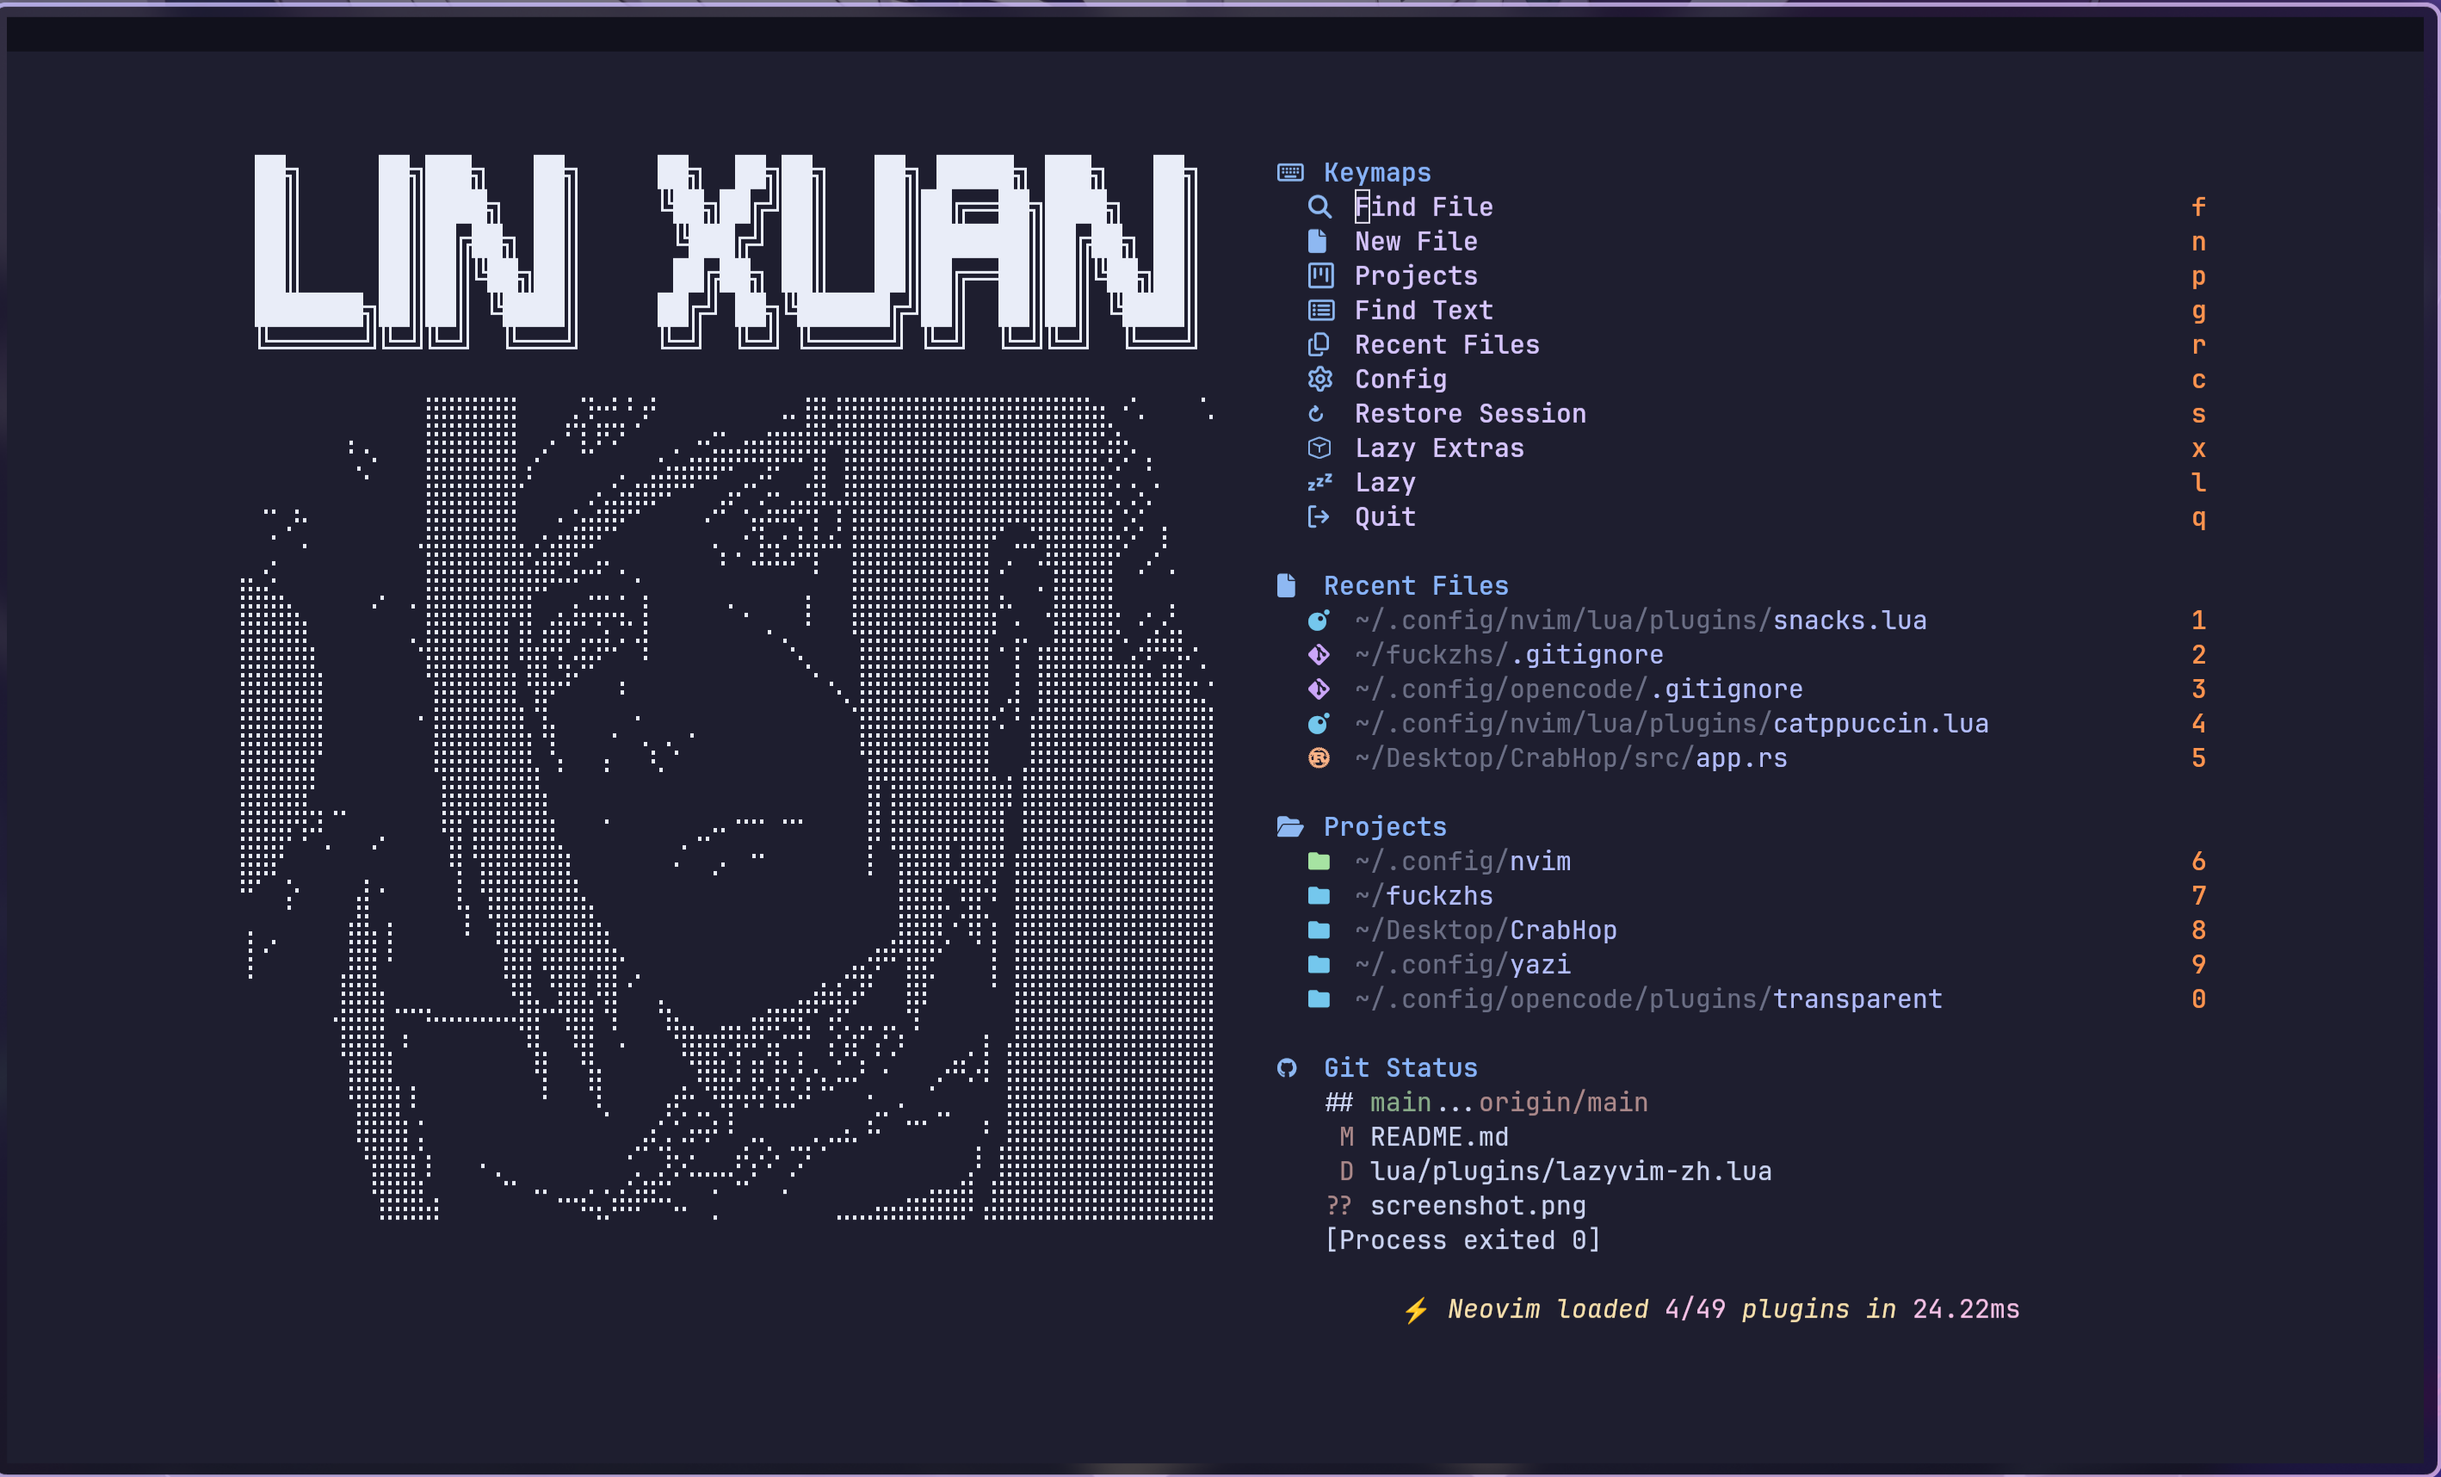
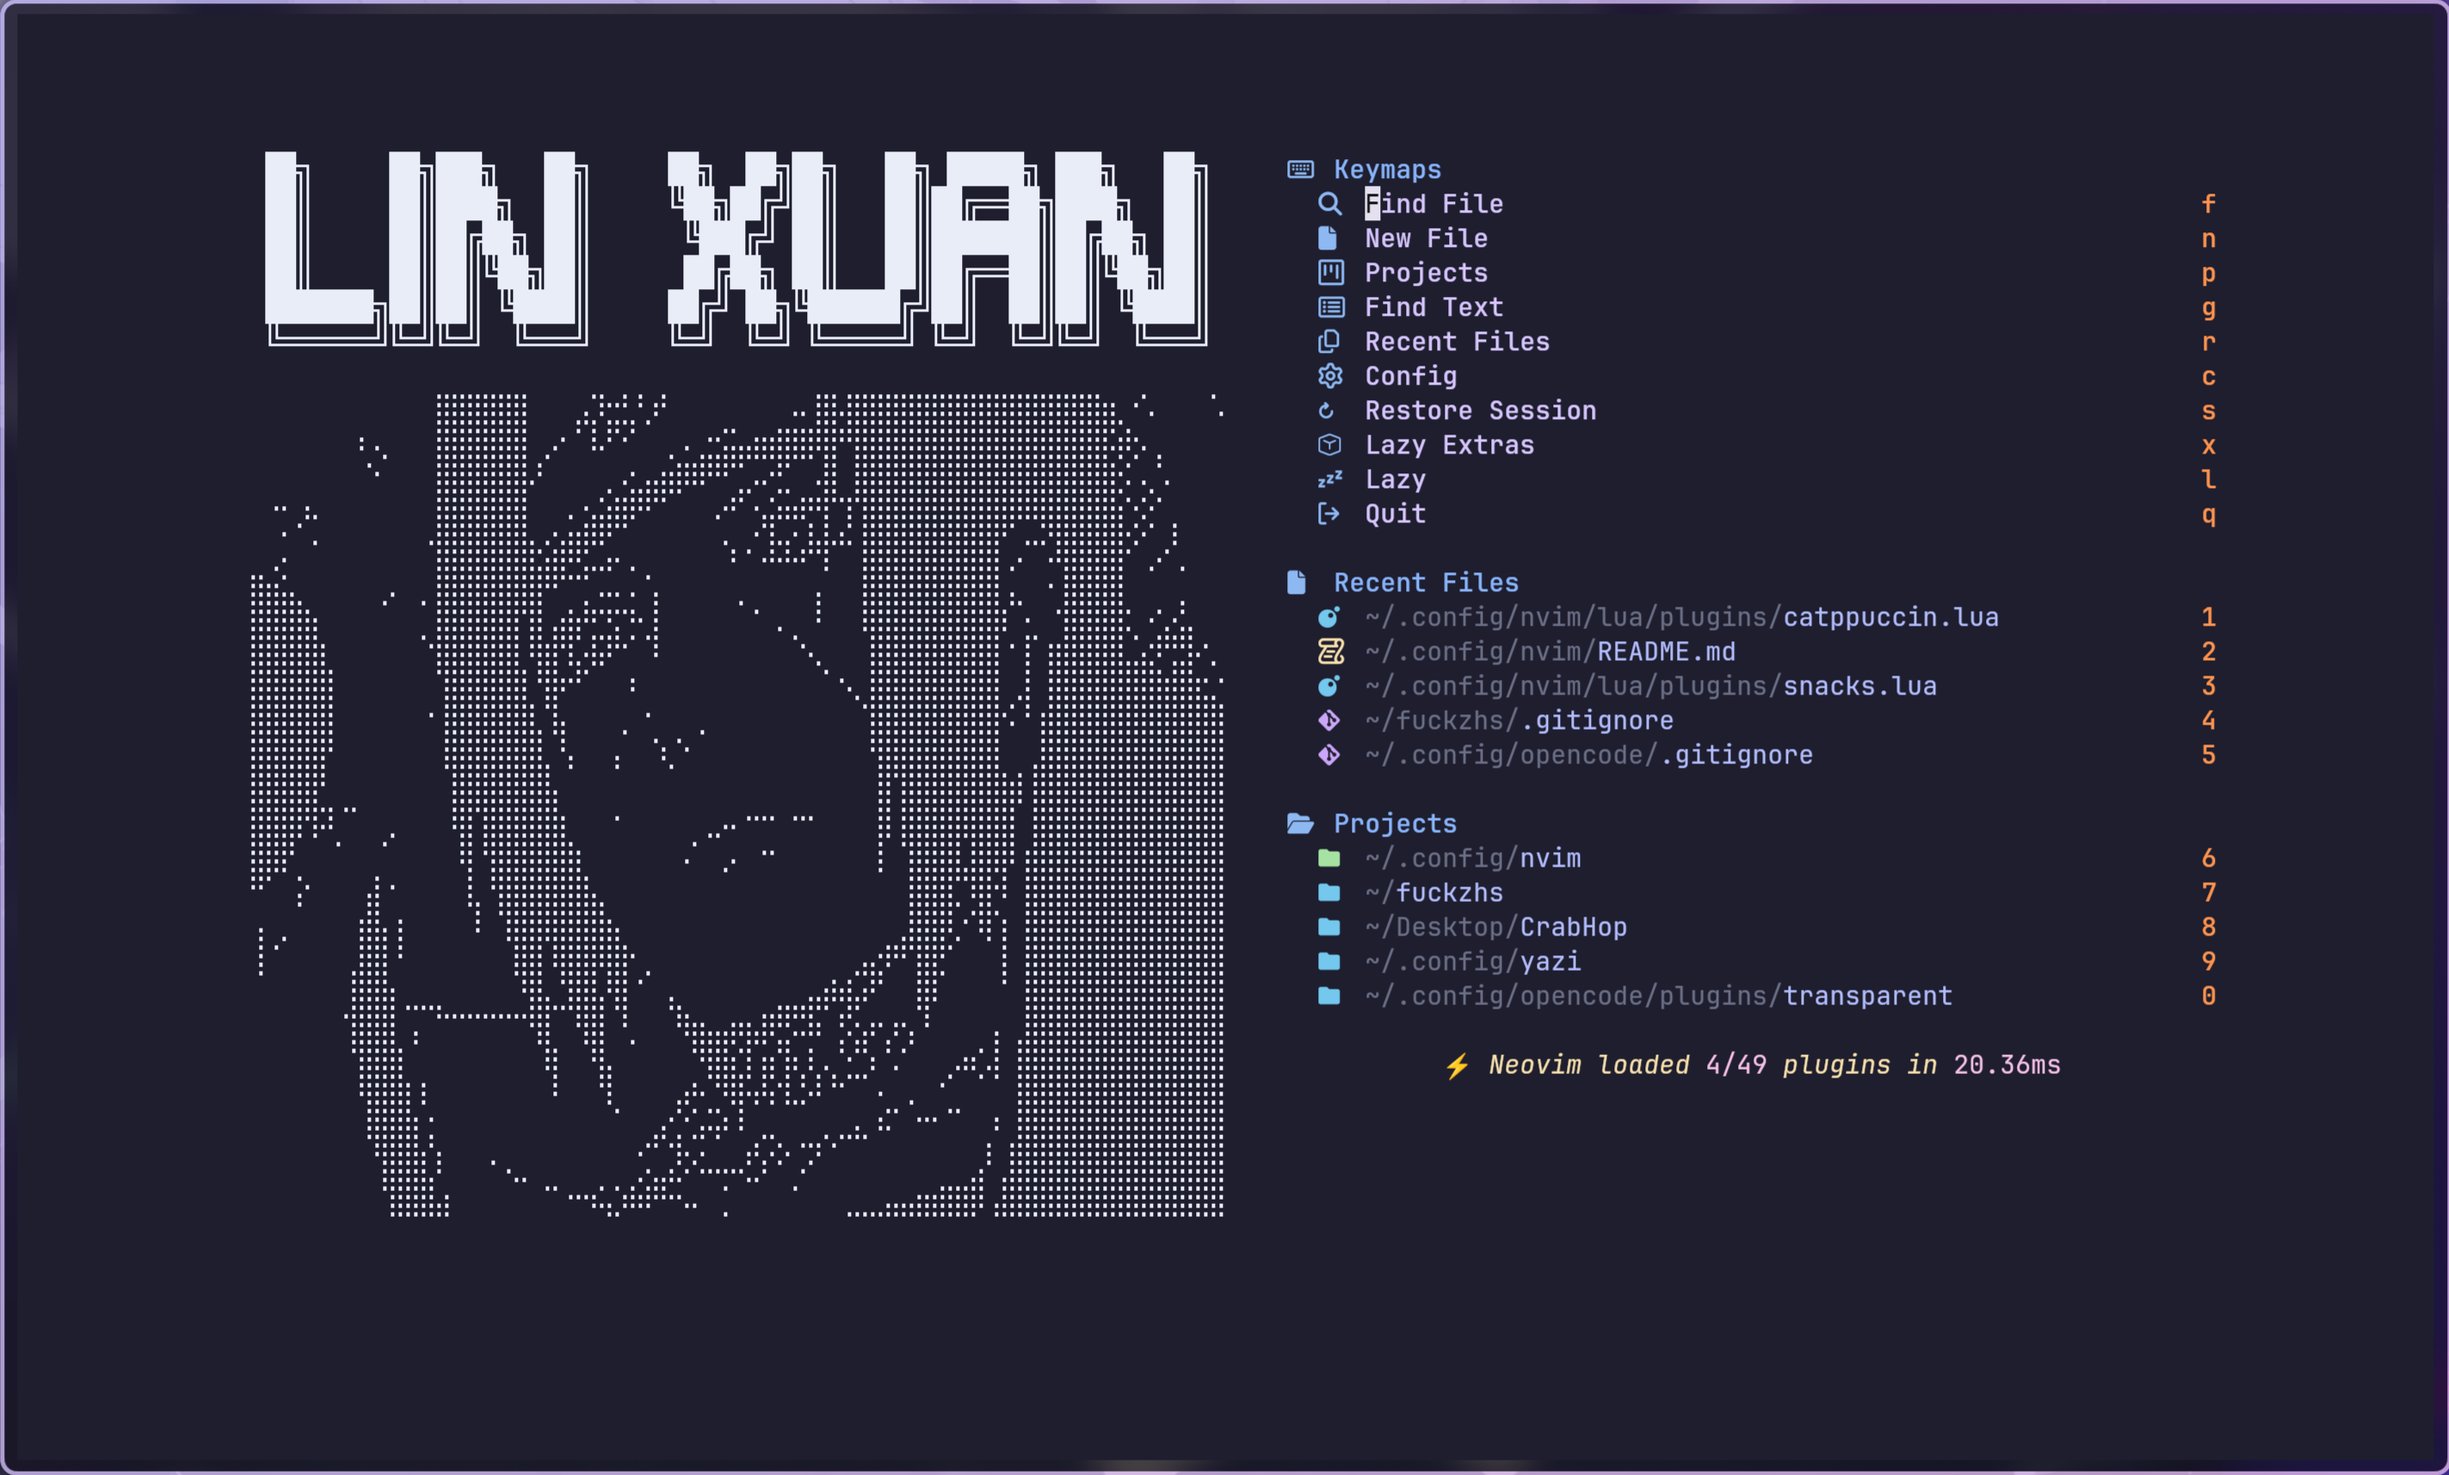
更新

diff --git a/README.md b/README.md
@@ -13,7 +13,7 @@ Installed plugins: 49
 ## 1. Features
 
 1. **Few hand-written plugin specs**: most capabilities come from LazyVim's built-in
-   presets selected via `:LazyExtras` (see `lazyvim.json`). Only 7 files are customized.
+   presets selected via `:LazyExtras` (see `lazyvim.json`). Only 6 files are customized.
 2. **Python uses basedpyright**; inlay hints are disabled by default (toggle with `<leader>uh`).
 3. **Annoying defaults turned off**: no automatic comment continuation, no spell check,
    no LSP progress popups.
@@ -60,7 +60,7 @@ Config: `lazyvim.json`
 |---|---|
 | `catppuccin` | Active colorscheme (mocha) |
 | `tokyonight.nvim` | Fallback colorscheme |
-| `bufferline.nvim` | Top buffer tabline, set to always show |
+| `bufferline.nvim` | Top buffer tabline |
 | `lualine.nvim` | Statusline |
 | `mini.icons` | Filetype icons |
 | `noice.nvim` | Rewrites cmdline / messages / notifications (LSP progress popups disabled) |
@@ -135,7 +135,7 @@ Config: `lazyvim.json`
 | `typst-preview.nvim` | Typst: live browser preview |
 | `markdown-preview.nvim` | Markdown: browser preview |
 
-## 4. Local Customization (7 files)
+## 4. Local Customization (6 files)
 
 | File | What it does |
 |---|---|
@@ -154,7 +154,6 @@ Config: `lazyvim.json`
 | `lua/plugins/snacks.lua` | Dashboard (ASCII art header + four panes: keymaps / recent files / projects / git status), **the ASCII portrait is Itachi Uchiha (宇智波鼬)**; picker shows hidden files; terminal; image & PDF preview; `<leader>t` for multiple terminal instances |
 | `lua/plugins/lsp.lua` | Inlay hints disabled by default |
 | `lua/plugins/noice.lua` | LSP progress notifications disabled |
-| `lua/plugins/bufferline.lua` | Bufferline always visible |
 | `lua/plugins/catppuccin.lua` | Uses catppuccin's own `load()` instead of the built-in theme name |
 | `lua/plugins/example.lua` | LazyVim template; first line is `if true then return {} end` — loads nothing, safe to delete |
 
@@ -297,7 +296,7 @@ If you want Chinese descriptions in the which-key menu and elsewhere, use:
 |---|---|
 | `catppuccin` | **当前配色**（mocha 系） |
 | `tokyonight.nvim` | 备用配色（启动兜底） |
-| `bufferline.nvim` | 顶部 buffer 标签栏，设为常显 |
+| `bufferline.nvim` | 顶部 buffer 标签栏 |
 | `lualine.nvim` | 底部状态栏 |
 | `mini.icons` | 文件类型图标 |
 | `noice.nvim` | 重写命令行 / 消息 / 通知 UI，已关掉 LSP 进度弹窗 |
@@ -372,7 +371,7 @@ If you want Chinese descriptions in the which-key menu and elsewhere, use:
 | `typst-preview.nvim` | Typst：浏览器实时预览 |
 | `markdown-preview.nvim` | Markdown：浏览器预览 |
 
-## 四、本机自定义部分（7 个文件）
+## 四、本机自定义部分（6 个文件）
 
 | 文件 | 干了什么 |
 |---|---|
@@ -391,7 +390,6 @@ If you want Chinese descriptions in the which-key menu and elsewhere, use:
 | `lua/plugins/snacks.lua` | 首页 Dashboard（ASCII 标题 + 快捷键 / 最近文件 / 项目 / Git 状态四栏），**其中的 ASCII 人物头像是宇智波鼬**；文件选择器显示隐藏文件；终端；图片与 PDF 预览；`<leader>t` 多实例终端 |
 | `lua/plugins/lsp.lua` | 默认关闭 inlay hints |
 | `lua/plugins/noice.lua` | 关闭 LSP 进度提示 |
-| `lua/plugins/bufferline.lua` | bufferline 常显 |
 | `lua/plugins/catppuccin.lua` | 用 catppuccin 官方 `load()` 而非内置主题名 |
 | `lua/plugins/example.lua` | LazyVim 模板，首行 `if true then return {} end`，**不加载任何内容**，可删 |
 
